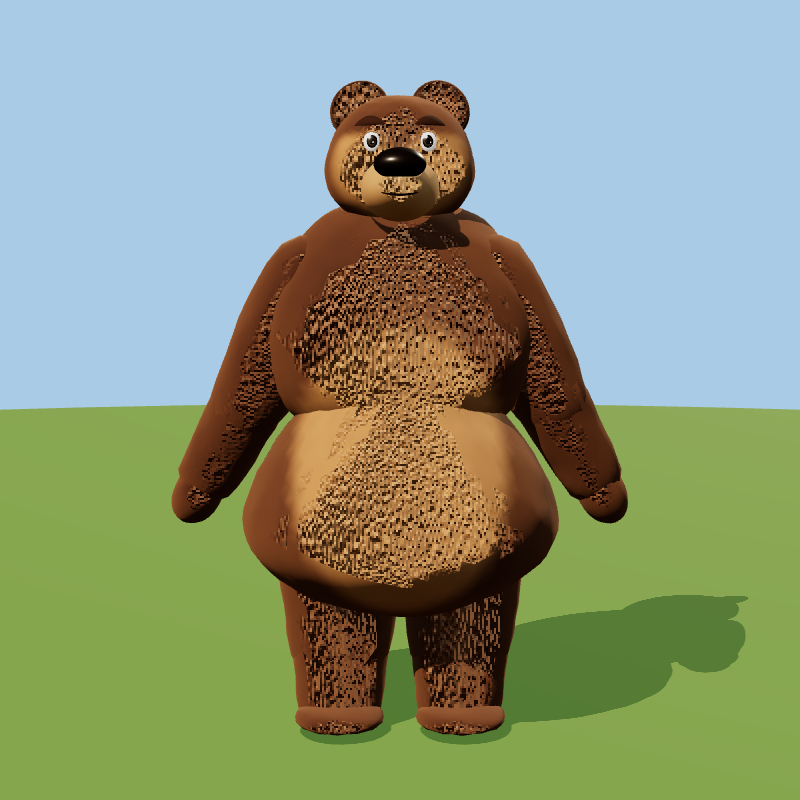
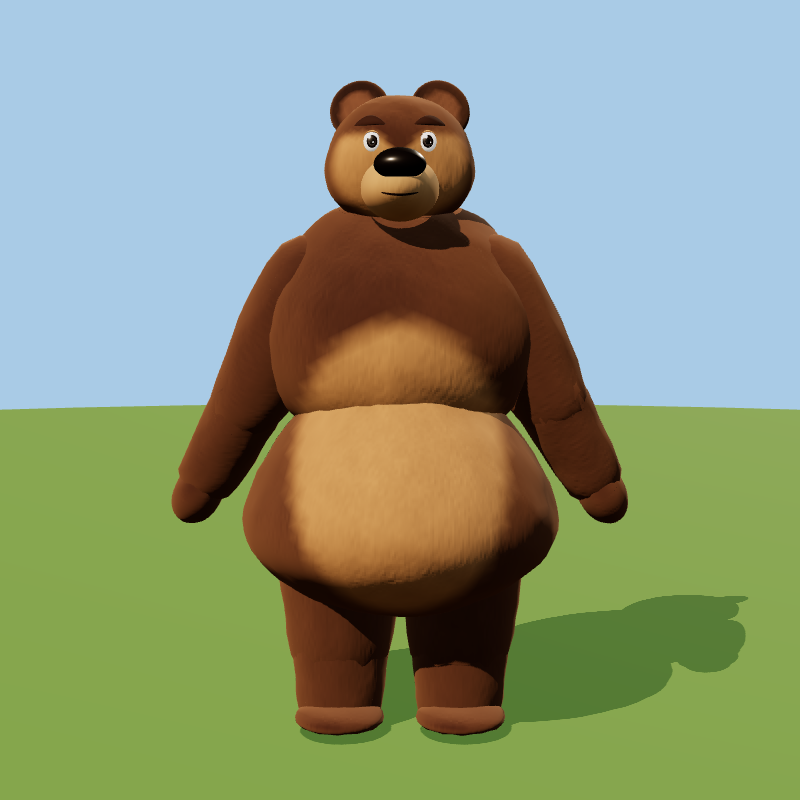
docs: director eval round 2 results
Claude-Session: https://claude.ai/code/session_016JFz9MVdai9o8C3gK4PmVv

diff --git a/src/engine/motion/verbs/locomotion.ts b/src/engine/motion/verbs/locomotion.ts
@@ -3,10 +3,10 @@
 // arm swing; Bear's heavy footfalls and arms carried clear of his belly. Root motion comes from the compiled path.
 import { SPEEDS } from "../../../shared/grammar";
 import type { ActorId } from "../../../shared/schema";
-import { addLayer, clamp, lerp, qpow, qslerp, smooth, type Pose, type PoseLayer } from "../blend";
+import { addLayer, clamp, lerp, qextrap, qpow, qslerp, smooth, type Pose, type PoseLayer } from "../blend";
 import { CLIPS } from "../clips.generated";
 import {
-  LOWER, STYLES, UPPER, arm, feetPoints, idleBase, mask, poseClip, pose, rx, ry, rz, sampleClip,
+  LOWER, STYLES, UPPER, arm, feetPoints, styleLegs, idleBase, mask, poseClip, pose, rx, ry, rz, sampleClip,
   type ActorStyle, type VerbCtx, type VerbImpl,
 } from "./common";
 
@@ -29,13 +29,17 @@ const strideMemo = new Map<string, number>();
 const contactMemo = new Map<string, number[]>();
 
 /** Per-frame foot samples of a clip cycle on this rig: sole height and fore-aft position of each foot. */
-function footTrack(actor: ActorId, clip: string, s: number): { h: [number, number]; z: [number, number] }[] {
+function footTrack(actor: ActorId, clip: string, s: number, kind?: Gait): { h: [number, number]; z: [number, number] }[] {
   const style = STYLES[actor];
   const c = CLIPS[clip];
+  const contacts = kind ? contactPhases(actor, clip) : [];
   const out: { h: [number, number]; z: [number, number] }[] = [];
   for (let i = 0; i < SAMPLES; i++) {
-    const L = sampleClip(clip, (i / SAMPLES) * c.dur, style, true);
-    const f = feetPoints(scaleLegs(L.bones, s), [0, 0, 0], style);
+    const ph = i / SAMPLES;
+    const L = sampleClip(clip, ph * c.dur, style, true);
+    let bones = scaleLegs(L.bones, s);
+    if (kind) bones = styleLegs(gaitLegs(actor, kind, bones, ph, contacts), style);
+    const f = feetPoints(bones, [0, 0, 0], style);
     out.push({
       h: [Math.min(f.left[0][1], f.left[1][1]), Math.min(f.right[0][1], f.right[1][1])],
       z: [(f.left[0][2] + f.left[1][2]) / 2, (f.right[0][2] + f.right[1][2]) / 2],
@@ -48,12 +52,12 @@ function footTrack(actor: ActorId, clip: string, s: number): { h: [number, numbe
  * Ground distance covered by one gait cycle of `clip` on this rig with leg scale s: the backward sweep speed of
  * a planted foot (relative to the hips) × one cycle — playing the cycle at distance/D keeps planted feet still.
  */
-export function cycleDistance(actor: ActorId, clip: string, s: number): number {
-  const key = `${actor}|${clip}|${s.toFixed(2)}`;
+export function cycleDistance(actor: ActorId, clip: string, s: number, kind: Gait = clip === "xbot_run" ? "run" : "walk"): number {
+  const key = `${actor}|${clip}|${s.toFixed(2)}|${kind}`;
   const hit = strideMemo.get(key);
   if (hit !== undefined) return hit;
   const style = STYLES[actor];
-  const tr = footTrack(actor, clip, s);
+  const tr = footTrack(actor, clip, s, kind);
   const eps = 0.012 * style.height;
   const v: number[] = [];
   for (let i = 0; i < SAMPLES; i++) {
@@ -128,9 +132,42 @@ function between(ph: number, contacts: number[]): number {
   return Math.sin(Math.min(1, best / gap) * Math.PI);
 }
 
+/** Leg-only personality on top of the clip: Masha's knees give on contact (squash) and toes point in flight;
+ *  Bear's knees absorb each heavy footfall; tiptoe walks on the toes with high knees. Used for the pose AND for
+ *  measuring the stride, so the cadence stays matched to the ground. */
+function gaitLegs(actor: ActorId, kind: Gait, bones: Pose, ph: number, contacts: number[]): Pose {
+  const out: Pose = { ...bones };
+  const post = (b: string, a: number) => { if (a) out[b] = qmul2(out[b] ?? [0, 0, 0, 1], rx(a)); };
+  const imp = impact(ph, contacts, kind === "run" ? 0.06 : 0.08);
+  if (actor === "masha") {
+    const sq = imp * (kind === "run" ? 1 : 0);
+    // runs: toes point in flight; walks: a light heel-to-toe roll through each step
+    const fl = kind === "run" ? flight(ph, contacts, 0.4) : 0.8 * between(ph, contacts);
+    for (const side of ["Left", "Right"]) {
+      post(`${side}Leg`, 0.22 * sq);
+      post(`${side}UpLeg`, -0.1 * sq);
+      post(`${side}Foot`, 0.25 * fl);
+    }
+  } else {
+    for (const side of ["Left", "Right"]) {
+      post(`${side}Leg`, 0.08 * imp);
+      post(`${side}UpLeg`, -0.035 * imp);
+      post(`${side}Foot`, 0.12 * between(ph, contacts));
+    }
+  }
+  if (kind === "tiptoe") {
+    for (const side of ["Left", "Right"]) {
+      post(`${side}UpLeg`, -0.15);
+      post(`${side}Leg`, 0.21);
+      post(`${side}Foot`, 0.27);
+    }
+  }
+  return out;
+}
+
 /** Leg scale that brings the cadence near the character's natural rhythm for this speed. */
 function legScale(style: ActorStyle, actor: ActorId, gait: Gait, speed: number): number {
-  const d1 = cycleDistance(actor, CLIP_OF[gait], 1);
+  const d1 = cycleDistance(actor, CLIP_OF[gait], 1, gait);
   const s = speed / (d1 * style.cadence[gait]);
   return Math.round(clamp(s, 0.7, gait === "run" ? 1.5 : 1.35) * 20) / 20;
 }
@@ -146,14 +183,14 @@ function gait(kind0: Gait, ctx: VerbCtx, localT: number): PoseLayer {
   const moving = ctx.dist > 0.01 || ctx.turned > 0.01;
   if (!moving || !c) return idleBase(ctx);
   const s = legScale(style, actor, kind, speed);
-  const D = cycleDistance(actor, clip, s);
+  const D = cycleDistance(actor, clip, s, kind);
   // phase follows the ground actually covered (eased starts/stops included) → planted feet stay put;
   // turning in place before moving shuffles ~2 steps per radian
   const cyc = ctx.dist / D + ctx.turned / (actor === "bear" ? 1.6 : 1.2);
   const ph = cyc - Math.floor(cyc);
   const base = sampleClip(clip, ph * c.dur, style, true);
-  let L: PoseLayer = { bones: scaleLegs(base.bones, s), hipsOffset: base.hipsOffset, ground: "lock" };
   const contacts = contactPhases(actor, clip);
+  let L: PoseLayer = { bones: gaitLegs(actor, kind, scaleLegs(base.bones, s), ph, contacts), hipsOffset: base.hipsOffset, ground: "lock" };
   const imp = impact(ph, contacts, kind === "run" ? 0.06 : 0.08);
   const air = between(ph, contacts);
 
@@ -163,17 +200,14 @@ function gait(kind0: Gait, ctx: VerbCtx, localT: number): PoseLayer {
     const amp = kind === "run" ? 1.45 : 1.6;
     const ref = pose(arm("Left", 1.2, 0.1, 0.4), arm("Right", 1.2, 0.1, 0.4));
     const arms: Pose = {};
-    for (const b of ["LeftArm", "RightArm", "LeftForeArm", "RightForeArm"]) arms[b] = qslerp(ref[b], lag[b] ?? ref[b], amp);
+    for (const b of ["LeftArm", "RightArm", "LeftForeArm", "RightForeArm"]) arms[b] = qextrap(ref[b], lag[b] ?? ref[b], amp);
     L = { ...L, bones: { ...L.bones, ...arms } };
     // squash on each contact (knees give, chest dips), stretch in between (tall, toes pointed); little hops
     const sq = imp * (kind === "run" ? 1 : 0.6);
     L = addLayer(L, {
-      LeftLeg: rx(0.22 * sq), RightLeg: rx(0.22 * sq),
-      LeftUpLeg: rx(-0.1 * sq), RightUpLeg: rx(-0.1 * sq),
       Spine: rx(0.1 * sq - 0.05 * air),
       Spine2: rx(-0.04 * air),
       Head: qmul2(rx(0.06 * sq), rz(0.05 * Math.sin(ph * Math.PI * 2))),
-      LeftFoot: rx(0.2 * air), RightFoot: rx(0.2 * air),
     });
     // little hops: flight between run contacts (a walk's bob comes from the legs alone)
     L.lift = kind === "run" ? 0.05 * flight(ph, contacts, 0.4) * style.bounce : 0;
@@ -191,8 +225,6 @@ function gait(kind0: Gait, ctx: VerbCtx, localT: number): PoseLayer {
       Spine1: qmul2(rz(-roll * 0.7), rx(0.05 * settle)),
       Spine2: rx(0.03 * settle),
       Head: qmul2(rz(-roll * 0.3), rx(0.07 * settle)),
-      LeftLeg: rx(0.1 + 0.18 * imp), RightLeg: rx(0.1 + 0.18 * imp),
-      LeftUpLeg: rx(-0.05 - 0.08 * imp), RightUpLeg: rx(-0.05 - 0.08 * imp),
     });
     if (kind === "run") L.lift = 0.025 * flight(ph, contacts, 0.45);
   }
@@ -200,12 +232,7 @@ function gait(kind0: Gait, ctx: VerbCtx, localT: number): PoseLayer {
     // sneaky: crouched upper body from the Mixamo sneak pose, high knees, up on the toes
     const sneak = poseClip("xbot_sneak", style);
     L = mask(L, sneak, UPPER, 0.85);
-    L = addLayer(L, {
-      LeftUpLeg: rx(-0.25), RightUpLeg: rx(-0.25),
-      LeftLeg: rx(0.35), RightLeg: rx(0.35),
-      LeftFoot: rx(0.45), RightFoot: rx(0.45),
-      ...pose(arm("Left", 0.6, 0.9, 1.2, -1.2), arm("Right", 0.6, 0.9, 1.2, -1.2)),
-    }, 0.6);
+    L = addLayer(L, pose(arm("Left", 0.6, 0.9, 1.2, -1.2), arm("Right", 0.6, 0.9, 1.2, -1.2)), 0.6);
     L.lift = 0;
   }
   // blend in from idle as the first step starts, and settle back into idle as the path eases to a stop

diff --git a/src/engine/motion/verbs/body.ts b/src/engine/motion/verbs/body.ts
@@ -1,9 +1,9 @@
 // Body verbs and held postures (sit, lie, carried). Dance uses the RobotExpressive clip for the upper body;
 // the rest is procedural on top of the Mixamo idle.
 import type { Quat } from "../../api";
-import { addLayer, blendLayers, easeInOut, qmul, smooth, window01, type PoseLayer } from "../blend";
+import { addLayer, blendLayers, clamp01, easeInOut, qmul, smooth, window01, type PoseLayer } from "../blend";
 import {
-  UPPER, UPPER_NO_HEAD, arm, idleBase, layer, leg, mask, noise1, pose, poseClip, rx, ry, rz,
+  UPPER, UPPER_NO_HEAD, arm, idleBase, raiseArms, layer, leg, mask, noise1, pose, poseClip, rx, ry, rz,
   sampleClip, type VerbCtx, type VerbImpl,
 } from "./common";
 
@@ -81,7 +81,7 @@ function jumpPose(lt: number, ctx: VerbCtx): PoseLayer {
   const peak = ctx.actor === "masha" ? 0.28 : 0.2;
   const crouch = window01(u, 0, 0.36, 0.12) + window01(u, 0.7, 1, 0.12);
   const air = u > 0.32 && u < 0.76 ? Math.sin(((u - 0.32) / 0.44) * Math.PI) : 0;
-  const base = mask(idleBase(ctx, 0.3), { bones: pose(arm("Left", -0.9, 0.3, 0.3), arm("Right", -0.9, 0.3, 0.3)), hipsOffset: [0, 0, 0] }, ["LeftArm", "LeftForeArm", "RightArm", "RightForeArm"], air);
+  const base = mask(idleBase(ctx, 0.3), { bones: raiseArms(air, 0.8, 0.4), hipsOffset: [0, 0, 0] }, ["LeftArm", "LeftForeArm", "RightArm", "RightForeArm"], smooth(Math.min(1, u * 8)));
   const tuck = air * 0.6;
   const L0 = addLayer(base, pose(
     leg("Left", 0.6 * crouch + tuck, 1.2 * crouch + tuck * 1.2), leg("Right", 0.6 * crouch + tuck, 1.2 * crouch + tuck * 1.2),
@@ -171,17 +171,25 @@ export const wake_up: VerbImpl = (lt, _p, ctx) => {
   const stand = standPose(ctx);
   let L = u < 0.45 ? transition(lie, sitUp, u / 0.45) : transition(sitUp, stand, (u - 0.45) / 0.4);
   const stretch = window01(u, 0.55, 1, 0.15);
-  L = addLayer(L, { LeftArm: rz(2.4 * stretch), RightArm: rz(-2.4 * stretch), Spine1: rx(-0.2 * stretch), Head: rx(-0.25 * stretch) });
+  L = mask(L, { bones: raiseArms(stretch, 0.95, 1.0), hipsOffset: [0, 0, 0] }, ["LeftArm", "LeftForeArm", "RightArm", "RightForeArm"], smooth(stretch * 4));
+  L = addLayer(L, { Spine1: rx(-0.2 * stretch), Head: rx(-0.25 * stretch) });
   const gw = ctx.fromPosture === "sleep" ? (u < 0.45 ? 0 : easeInOut((u - 0.45) / 0.4)) : 1;
   return { ...L, groundW: gw, face: { lidClose: 1 - smooth(u / 0.4), emotion: "sleepy", viseme: "o", visemeWeight: stretch } };
 };
 
 export const yawn_stretch: VerbImpl = (lt, _p, ctx) => {
+  // arms swing up in front and overhead (elbows bent), the back arches, a big yawn, then everything lowers
   const u = lt / ctx.dur;
-  const s = window01(u, 0.1, 0.9, 0.25);
-  const base = mask(idleBase(ctx, 0.3), { bones: pose(arm("Left", -1.25, 0.25, 0.5), arm("Right", -1.25, 0.25, 0.5)), hipsOffset: [0, 0, 0] }, ["LeftArm", "LeftForeArm", "RightArm", "RightForeArm"], s);
-  const L = addLayer(base, { Spine: rx(-0.15 * s), Spine1: rx(-0.1 * s), Head: rx(-0.3 * s) }, 1, [0, 0.02 * s * ctx.style.hipHeight, 0]);
-  return { ...L, face: { viseme: "o", visemeWeight: s, lidClose: 0.6 * s } };
+  const s = easeInOut(clamp01((u - 0.05) / 0.35)) * (1 - easeInOut(clamp01((u - 0.72) / 0.26)));
+  const take = smooth(u / 0.06) * smooth((1 - u) / 0.04);
+  const base = mask(idleBase(ctx, 0.3), { bones: raiseArms(s, 1, 1.0), hipsOffset: [0, 0, 0] }, ["LeftArm", "LeftForeArm", "RightArm", "RightForeArm"], take);
+  const arch = s * (ctx.actor === "bear" ? 1.1 : 1);
+  const L = addLayer(base, {
+    Spine: rx(-0.14 * arch), Spine1: rx(-0.12 * arch), Spine2: rx(-0.08 * arch), Neck: rx(-0.1 * arch), Head: rx(-0.25 * arch),
+    LeftShoulder: rz(0.15 * s), RightShoulder: rz(-0.15 * s),
+    LeftFoot: rx(0.25 * s), RightFoot: rx(0.25 * s),
+  });
+  return { ...L, face: { viseme: "o", visemeWeight: s, lidClose: 0.7 * s } };
 };
 
 function crouch(ctx: VerbCtx, depth: number): PoseLayer {

diff --git a/src/engine/motion/library.ts b/src/engine/motion/library.ts
@@ -4,7 +4,7 @@
 import type { Verb } from "../../shared/schema";
 import { LOCOMOTION_VERBS } from "../../shared/grammar";
 import { addLayer, breathingPose, clamp01, qmul, type Pose, type PoseLayer } from "./blend";
-import { UPPER, lowestFoot, mask, rx, rz, type ClipParams, type VerbCtx, type VerbImpl, type VerbKind } from "./verbs/common";
+import { UPPER, lowestFoot, mask, rx, styleLegs, rz, type ClipParams, type VerbCtx, type VerbImpl, type VerbKind } from "./verbs/common";
 import * as loco from "./verbs/locomotion";
 import * as body from "./verbs/body";
 import * as gesture from "./verbs/gesture";
@@ -59,26 +59,12 @@ const FREE_VERBS = new Set<Verb>(["sit", "sleep", "fall_down", "swing", "jump", 
 /** Bear's weight / Masha's lightness, applied after every verb while standing. */
 function applyStyle(L: PoseLayer, ctx: VerbCtx, standing: boolean): PoseLayer {
   const s = ctx.style;
-  const bones: Pose = { ...L.bones };
-  const pre = (b: string, q: [number, number, number, number]) => {
-    bones[b] = qmul(q, bones[b] ?? [0, 0, 0, 1]);
-  };
+  let bones: Pose = { ...L.bones };
   // arms clear the body (Bear's belly, Masha's dress) — in every verb
-  pre("LeftArm", rz(s.armOut));
-  pre("RightArm", rz(-s.armOut));
-  if (standing) {
-    pre("LeftUpLeg", rz(s.stance));
-    pre("RightUpLeg", rz(-s.stance));
-    if (s.hipsDrop > 0) {
-      // carry the weight low: knees bent (the ground lock then lowers the hips with the feet planted)
-      const a = Math.acos(Math.max(-1, 1 - s.hipsDrop / s.hipHeight));
-      for (const side of ["Left", "Right"]) {
-        pre(`${side}UpLeg`, rx(-a));
-        bones[`${side}Leg`] = qmul(bones[`${side}Leg`] ?? [0, 0, 0, 1], rx(2 * a));
-        bones[`${side}Foot`] = qmul(bones[`${side}Foot`] ?? [0, 0, 0, 1], rx(-a));
-      }
-    }
-  }
+  bones.LeftArm = qmul(rz(s.armOut), bones.LeftArm ?? [0, 0, 0, 1]);
+  bones.RightArm = qmul(rz(-s.armOut), bones.RightArm ?? [0, 0, 0, 1]);
+  // wide stance, weight carried low (the ground lock then lowers the hips with the feet planted)
+  if (standing) bones = styleLegs(bones, s);
   return { ...L, bones };
 }
 

diff --git a/src/engine/motion/verbs/common.ts b/src/engine/motion/verbs/common.ts
@@ -84,6 +84,24 @@ function qrotv(q: Quat, v: Vec3): Vec3 {
   return [ix * w - iw * x - iy * z + iz * y, iy * w - iw * y - iz * x + ix * z, iz * w - iw * z - ix * y + iy * x];
 }
 
+/** Standing leg style: stance widened (hip abduction) and, for Bear, knees bent to carry the weight low. */
+export function styleLegs(bones: Pose, style: ActorStyle): Pose {
+  const out: Pose = { ...bones };
+  const pre = (b: string, q: Quat) => { out[b] = qmul(q, out[b] ?? IDENTITY); };
+  const post = (b: string, q: Quat) => { out[b] = qmul(out[b] ?? IDENTITY, q); };
+  pre("LeftUpLeg", rz(style.stance));
+  pre("RightUpLeg", rz(-style.stance));
+  if (style.hipsDrop > 0) {
+    const a = Math.acos(Math.max(-1, 1 - style.hipsDrop / style.hipHeight));
+    for (const side of ["Left", "Right"]) {
+      pre(`${side}UpLeg`, rx(-a));
+      post(`${side}Leg`, rx(2 * a));
+      post(`${side}Foot`, rx(-a));
+    }
+  }
+  return out;
+}
+
 /** Height of the lowest sole point (0 = touching the ground). */
 export function lowestFoot(bones: Pose, hipsOffset: Vec3, style: ActorStyle): number {
   const f = feetPoints(bones, hipsOffset, style);
@@ -212,6 +230,18 @@ export function arm(side: "Left" | "Right", down: number, fwd: number, elbow: nu
     [`${side}Arm`]: upper,
     [`${side}ForeArm`]: ry(-s * elbow),
   };
+}
+
+/**
+ * Both arms raised along a FORWARD arc (never out to the sides through a T-pose): s = 0 hanging at the sides,
+ * 1 overhead with the elbows bent. `reach` 0..1 = how far overhead (1 ≈ straight up).
+ */
+export function raiseArms(s: number, reach = 1, elbowEnd = 0.9): Pose {
+  const k = Math.max(0, Math.min(1, s));
+  const down = 1.25 + (-1.2 * reach - 1.25) * k; // elevation below horizontal: 1.25 (down) → about -1.2 (up)
+  const fwd = 0.1 + 1.25 * Math.sin(Math.PI * Math.min(1, k * 1.15)) * (1 - 0.6 * k) + 0.35 * k; // swing up in front
+  const elbow = 0.3 + (elbowEnd - 0.3) * k;
+  return pose(arm("Left", down, fwd, elbow), arm("Right", down, fwd, elbow));
 }
 
 /** Leg pose: hip flexion (thigh forward, rad), knee flexion, hip abduction (outward), ankle. */

diff --git a/src/engine/characters/face.ts b/src/engine/characters/face.ts
@@ -56,6 +56,8 @@ export interface FaceConfig {
     arch: number;
     /** metres of travel for a full raise */
     range: number;
+    /** optional vertex-coloured material for the brows (e.g. Bear's fur); default: a plain matte material */
+    material?: THREE.Material;
   };
   mouth: {
     surface: FaceSurface;
@@ -194,7 +196,8 @@ export function buildFace(cfg: FaceConfig, mats: MaterialSet): FaceRig {
   const lidMat = mats.add(
     new THREE.MeshPhysicalMaterial({ color: 0xffffff, vertexColors: true, roughness: 0.62, sheen: 0.5, sheenColor: col(E.lidColor) }),
   );
-  const browMat = mats.add(new THREE.MeshStandardMaterial({ color: col(cfg.brows.color), roughness: 0.85 }));
+  const browMat = cfg.brows.material ?? mats.add(new THREE.MeshStandardMaterial({ color: col(cfg.brows.color), roughness: 0.85 }));
+  const browCol = col(cfg.brows.color);
   const mouthMat = mats.add(new THREE.MeshStandardMaterial({ color: 0xffffff, vertexColors: true, roughness: 0.55 }));
 
   // ---- eyes
@@ -348,6 +351,7 @@ export function buildFace(cfg: FaceConfig, mats: MaterialSet): FaceRig {
       const z0 = surfZ(E.surface, bx + lx, by + ly);
       out.set(lx, ly, z0 + d.z * B.thickness * 0.55 * taper + B.thickness * 0.3);
     });
+    if (cfg.brows.material) paintVertices(bg, (_p, out) => out.copy(browCol));
     const bm = new THREE.Mesh(bg, browMat);
     bm.name = "brow";
     g.add(bm);

diff --git a/tests/unit/_cam_tmp.test.ts b/tests/unit/_cam_tmp.test.ts
@@ -1,0 +1,16 @@
+import { it } from "vitest";
+import { FIXTURES } from "../../src/director/fixtures/index";
+import { compileEpisode } from "../../src/compiler/episode";
+import { DEFAULT_REMIX } from "../../src/shared/schema";
+it("cam", () => {
+  for (const id of ["pancake_morning", "bears_nap"]) {
+    const ep = FIXTURES.find((f) => f.id === id && f.lang === "en")!;
+    const r = compileEpisode(ep.paragraphs.map((p, i) => ({ paragraphId: String(i), version: 1, beatScript: p.beatScript, remix: DEFAULT_REMIX })), "en");
+    const s = r.results[0].segment;
+    console.log(id, "dur", s.duration);
+    console.log(" beats", JSON.stringify(r.results[0].beatScript.beats.map((b) => [b.actor, b.verb, b.target, b.with_previous, b.line?.slice(0, 15)])));
+    for (const a of ["masha", "bear"] as const) console.log(" ", a, s.actorClips[a].filter((c) => !c.params.ambient).map((c) => `${c.start.toFixed(1)}+${c.dur.toFixed(1)} ${c.verb}`).join(" | "));
+    console.log(" dlg", s.dialogue.map((d) => `${d.actor} ${d.start.toFixed(1)}-${(d.start + d.dur).toFixed(1)}`).join(", "));
+    console.log(" cam", s.camera.map((c) => `${c.start.toFixed(1)}+${c.dur.toFixed(1)} ${c.shot} look(${c.from.look[0].toFixed(1)},${c.from.look[2].toFixed(1)}) pos(${c.from.pos[0].toFixed(1)},${c.from.pos[2].toFixed(1)})`).join("\n      "));
+  }
+});

diff --git a/tests/e2e/app.spec.ts b/tests/e2e/app.spec.ts
@@ -137,6 +137,12 @@ test("5. canon: Bear says thank you → no Bear dialogue and an adjusted chip", 
   const segs = await segments(page);
   expect(segs.length).toBe(1);
   expect(segs[0].segment.dialogue.filter((d) => d.actor === "bear")).toHaveLength(0);
+  // D4, second half: a weapon is swapped for something safe before anything renders → adjusted as well
+  await typeParagraph(page, "Masha grabs a knife.");
+  await expect(page.getByTestId("paragraph-card").nth(1)).toHaveAttribute("data-status", "adjusted", { timeout: 30_000 });
+  const rules = await page.evaluate(() => (JSON.parse(localStorage.getItem("mabear.log") ?? "[]") as { ruleHits: { rule: string }[] }[]).flatMap((e) => e.ruleHits.map((h) => h.rule)));
+  expect(rules).toContain("bear_silent");
+  expect(rules).toContain("no_weapons");
 });
 
 test("6. EN → RU toggle switches UI strings and a RU example loads", async ({ page }) => {

diff --git a/src/engine/characters/rig.ts b/src/engine/characters/rig.ts
@@ -355,7 +355,7 @@ export function fabricMaterial(color: string, sheenColor: string, vertexColors =
  * fine anisotropic value flecks and a derivative-based bump from the same noise, in mesh-local space so it sticks
  * to the body. It fades out when a strand gets smaller than a pixel (no sparkle in wide shots). No UVs or textures needed.
  */
-export const FUR_STRANDS = { freq: 150, stretch: 0.3, value: 0.16, bump: 0.55 };
+export const FUR_STRANDS = { freq: 90, stretch: 0.35, value: 0.05, bump: 0.0012 };
 
 export function furMaterial(sheenColor: string): THREE.MeshPhysicalMaterial {
   const m = new THREE.MeshPhysicalMaterial({

diff --git a/src/engine/motion/blend.ts b/src/engine/motion/blend.ts
@@ -123,6 +123,11 @@ export function qpow(q: Quat, s: number): Quat {
   return [q[0] * k, q[1] * k, q[2] * k, Math.cos(half * s)];
 }
 
+/** Interpolate a→b by t, extrapolating past b when t > 1 (amplifies a motion around a reference pose). */
+export function qextrap(a: Quat, b: Quat, t: number): Quat {
+  return qnorm(qmul(a, qpow(qmul(qinv(a), b), t)));
+}
+
 /** Scale a rotation's angle (t=0 → identity, t=1 → q). Used for additive weights. */
 export function qscale(q: Quat, t: number): Quat {
   return qslerp(IDENTITY, q, t);

diff --git a/scripts/likenessShots.ts b/scripts/likenessShots.ts
@@ -55,7 +55,7 @@ async function main(): Promise<void> {
     const page = await browser.newPage({ viewport: { width: 800, height: 800 } });
     page.on("pageerror", (e) => console.error("pageerror:", e.message));
     page.on("console", (m) => {
-      if (motions.length) console.log("page:", m.text());
+      if (motions.length || m.type() === "error" || m.type() === "warning") console.log("page:", m.type(), m.text().slice(0, 300));
     });
     for (const spec of motions) {
       const [f, c, t0, dt, n] = spec.split(":");

diff --git a/src/engine/characters/bear.ts b/src/engine/characters/bear.ts
@@ -238,7 +238,7 @@ export function buildBear(): CharacterRig {
       lidCap: 1.3,
       lashFlick: false,
     },
-    brows: { color: C.brows, y: 0.058, dx: 0.006, length: 0.11, thickness: 0.019, arch: 0.016, range: 0.03 },
+    brows: { color: C.brows, y: 0.058, dx: 0.006, length: 0.11, thickness: 0.019, arch: 0.016, range: 0.03, material: fur },
     mouth: {
       surface: { center: H.snoutCenter as V3, radius: sr[2], zAt: snoutZ },
       y: sc.y - 0.035,

diff --git a/docs/STATUS.md b/docs/STATUS.md
@@ -32,3 +32,13 @@
 
 - **Next:** keep the deployed default on `claude-opus-5-5` (spec); director tuning round 2 on beat richness; final e2e + screenshot review.
 - **Risks:** Opus latency ~7 s per paragraph (the offline preview covers the wait).
+
+### Director tuning round 2 (05:31 UTC, deployed build `1c83ff72` for 6639baf) — prompt frozen after this round
+Changes: every noticeable beat gets a `with_previous` reaction from the other character; physical reactions to weather/sound requests (+ natural sfx); no empty beats (look/walk to the mark you stand on, idle filler); beat-count targets (1 sentence 4–7, 2–3 sentences 6–10); `cast_only` only for non-existent characters/places; summaries never mention rules.
+
+| Model | Pass rate | P50 latency | Mean cost / paragraph | Beats per prompt (en_nap, en_rain, en_canon, ru_carrot, ru_swing, ru_fishing) | Mean beats (round 1 → 2) | Staging richness |
+|---|---|---|---|---|---|---|
+| claude-opus-5-5 | 6/6 (100%) | 6 702 ms | $0.0311 (incl. one $0.089 cache write; ~$0.02 warm) | 9, 8, 7, 7, 6, 10 | 7.7 → 7.8 | Rain prompt now 8 beats with real rain business; canon prompt lost its spurious `cast_only` hit (2 hits: no_weapons, bear_silent) |
+| claude-haiku-5-5 | 6/6 (100%) | 4 752 ms | $0.00096 | 8, 6, 6, 8, 5, 8 | 6.3 → 6.8 | Fuller than round 1, still plainer than Opus; ~32× cheaper |
+
+Judgment: Opus stays the deployed default (richer in-character staging); Haiku is a credible cost lever for the Economics story (~$0.001/¶ today on a frontier-lab small model).
